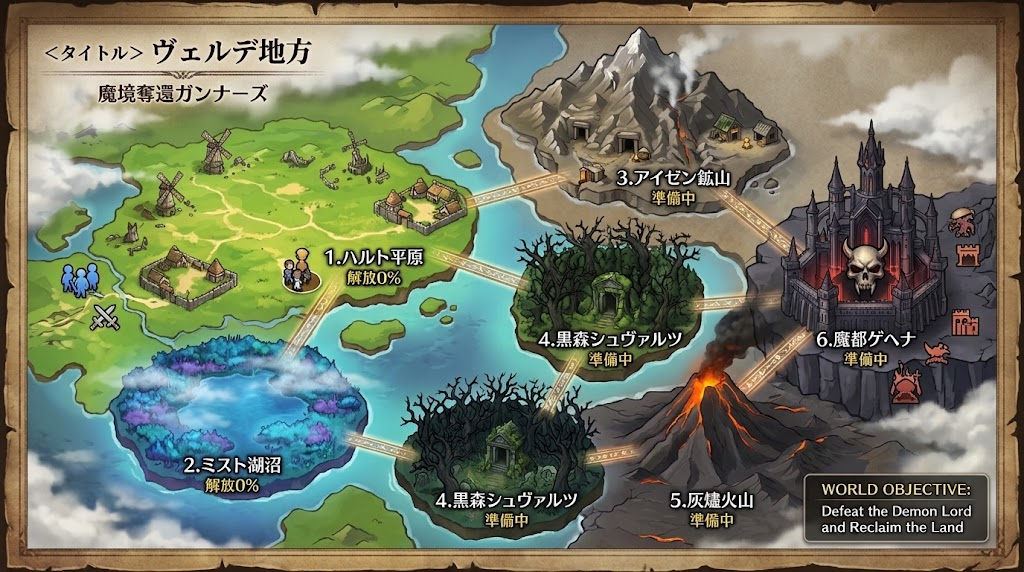
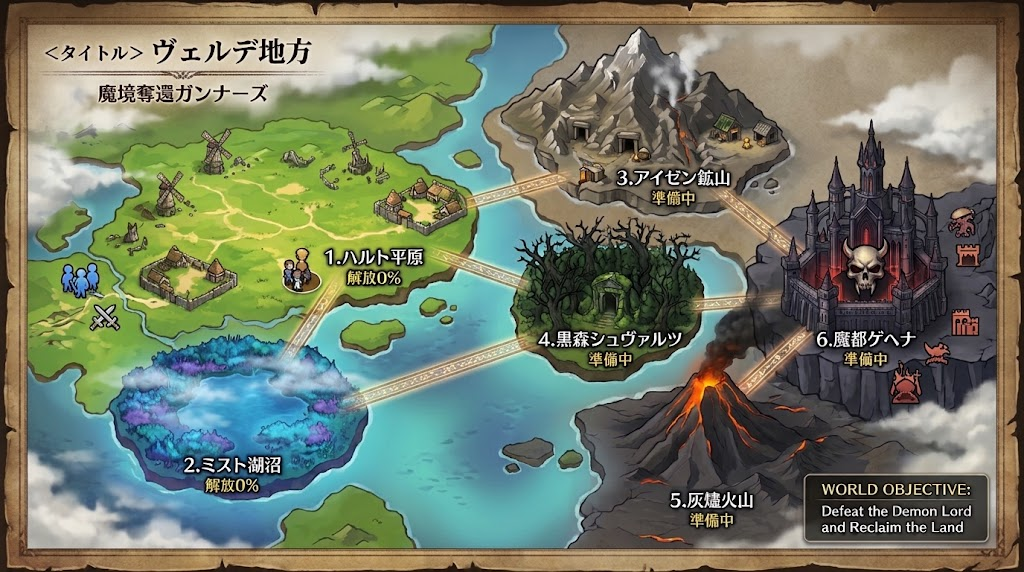
魔境奪還ガンナーズ: 全体図の絵を差し替え（黒森シュヴァルツの島を 1 つにした）
Claude-Session: https://claude.ai/code/session_01GT3LsdcCXA2t649YWMRkUN

Changed region(s): [[0.3125, 0.5647, 0.625, 0.951]]

diff --git a/games/reclaim-gunners/script.js b/games/reclaim-gunners/script.js
@@ -5295,15 +5295,14 @@
   // ---------- 全体図 ----------
   // 全体図の絵 (assets/worldmap.jpg。1024 × 572)。絵の上に、押せる場所と名前の札を重ねる
   //   spots: そのステージの島 (押せる楕円)。label: 名前の札の中心 (絵に描いてある名前の上にかぶせる)
-  //   黒森シュヴァルツは、絵の中に島が 2 つある (どちらを押しても黒森)
   const WORLD_W = 1024;
   const WORLD_H = 572;
   const WORLD = {
     1: { spots: [[230, 200, 200, 125]], label: [375, 264] },
     2: { spots: [[230, 418, 140, 72]], label: [232, 470] },
     3: { spots: [[630, 118, 140, 78]], label: [672, 182] },
-    4: { spots: [[600, 282, 92, 68], [495, 446, 100, 72]], label: [610, 342], label2: [505, 505] },
-    5: { spots: [[702, 430, 92, 80]], label: [710, 505] },
+    4: { spots: [[600, 282, 92, 68]], label: [610, 342] },
+    5: { spots: [[690, 440, 130, 95]], label: [710, 505] },
     6: { spots: [[872, 240, 112, 128]], label: [865, 342] },
   };
   let selStage = 1;
@@ -5352,7 +5351,7 @@
       const plates = STAGES.map((st) => {
         const w = WORLD[st.id];
         const sel = st.id === selStage;
-        return worldPlate(st, w.label, sel) + (w.label2 ? worldPlate(st, w.label2, sel) : '');
+        return worldPlate(st, w.label, sel);
       }).join('');
       return `
       <div class="overlay"><div class="panel full world-panel">

diff --git a/games/reclaim-gunners/SPEC.md b/games/reclaim-gunners/SPEC.md
@@ -33,7 +33,6 @@
 - 全体図: ヴェルデ地方の 1 枚絵のイラスト（`assets/worldmap.jpg`、1024 × 572）の上に、押せる島と名前の札を重ねる。島か札を押すと、下にそのステージの説明・推奨レベル・解放したエリアの数を出し、「このステージへ」でステージ図へ
   - 札には、絵に描いてある名前の上から、いまの状態（解放 〇% / 🔒 守護者を倒すと開く / 準備中）を出す。左上の題字と右下の目標も札でかぶせる
   - まだ行けないステージの島は暗くする。選んでいるステージは、島のまわりに点線の輪が回る
-  - 絵には黒森シュヴァルツの島が 2 つあるので、どちらを押しても黒森になる
 - ステージ図: そのステージのイラストに、エリアの区切りと転移碑のアイコンを重ねる。エリアを押すと、そのエリアの名前・推奨レベル・残りの魔巣の数・お店の有無・ボスを出す。「ここへ転移」で転移碑から始める（転移できるエリアの条件は「ファストトラベル」を参照）
 - プレイ中は Esc / 一時停止ボタンでメニューを開く: 「再開」「装備」「能力ボード」「マップ」「アイテム」「図鑑」「設定」「全体図へ戻る」
   - 「全体図へ戻る」は、そのエリアが解放済みのときか、転移碑のそばにいるときだけ押せる（戦闘から逃げる手段にしないため）
